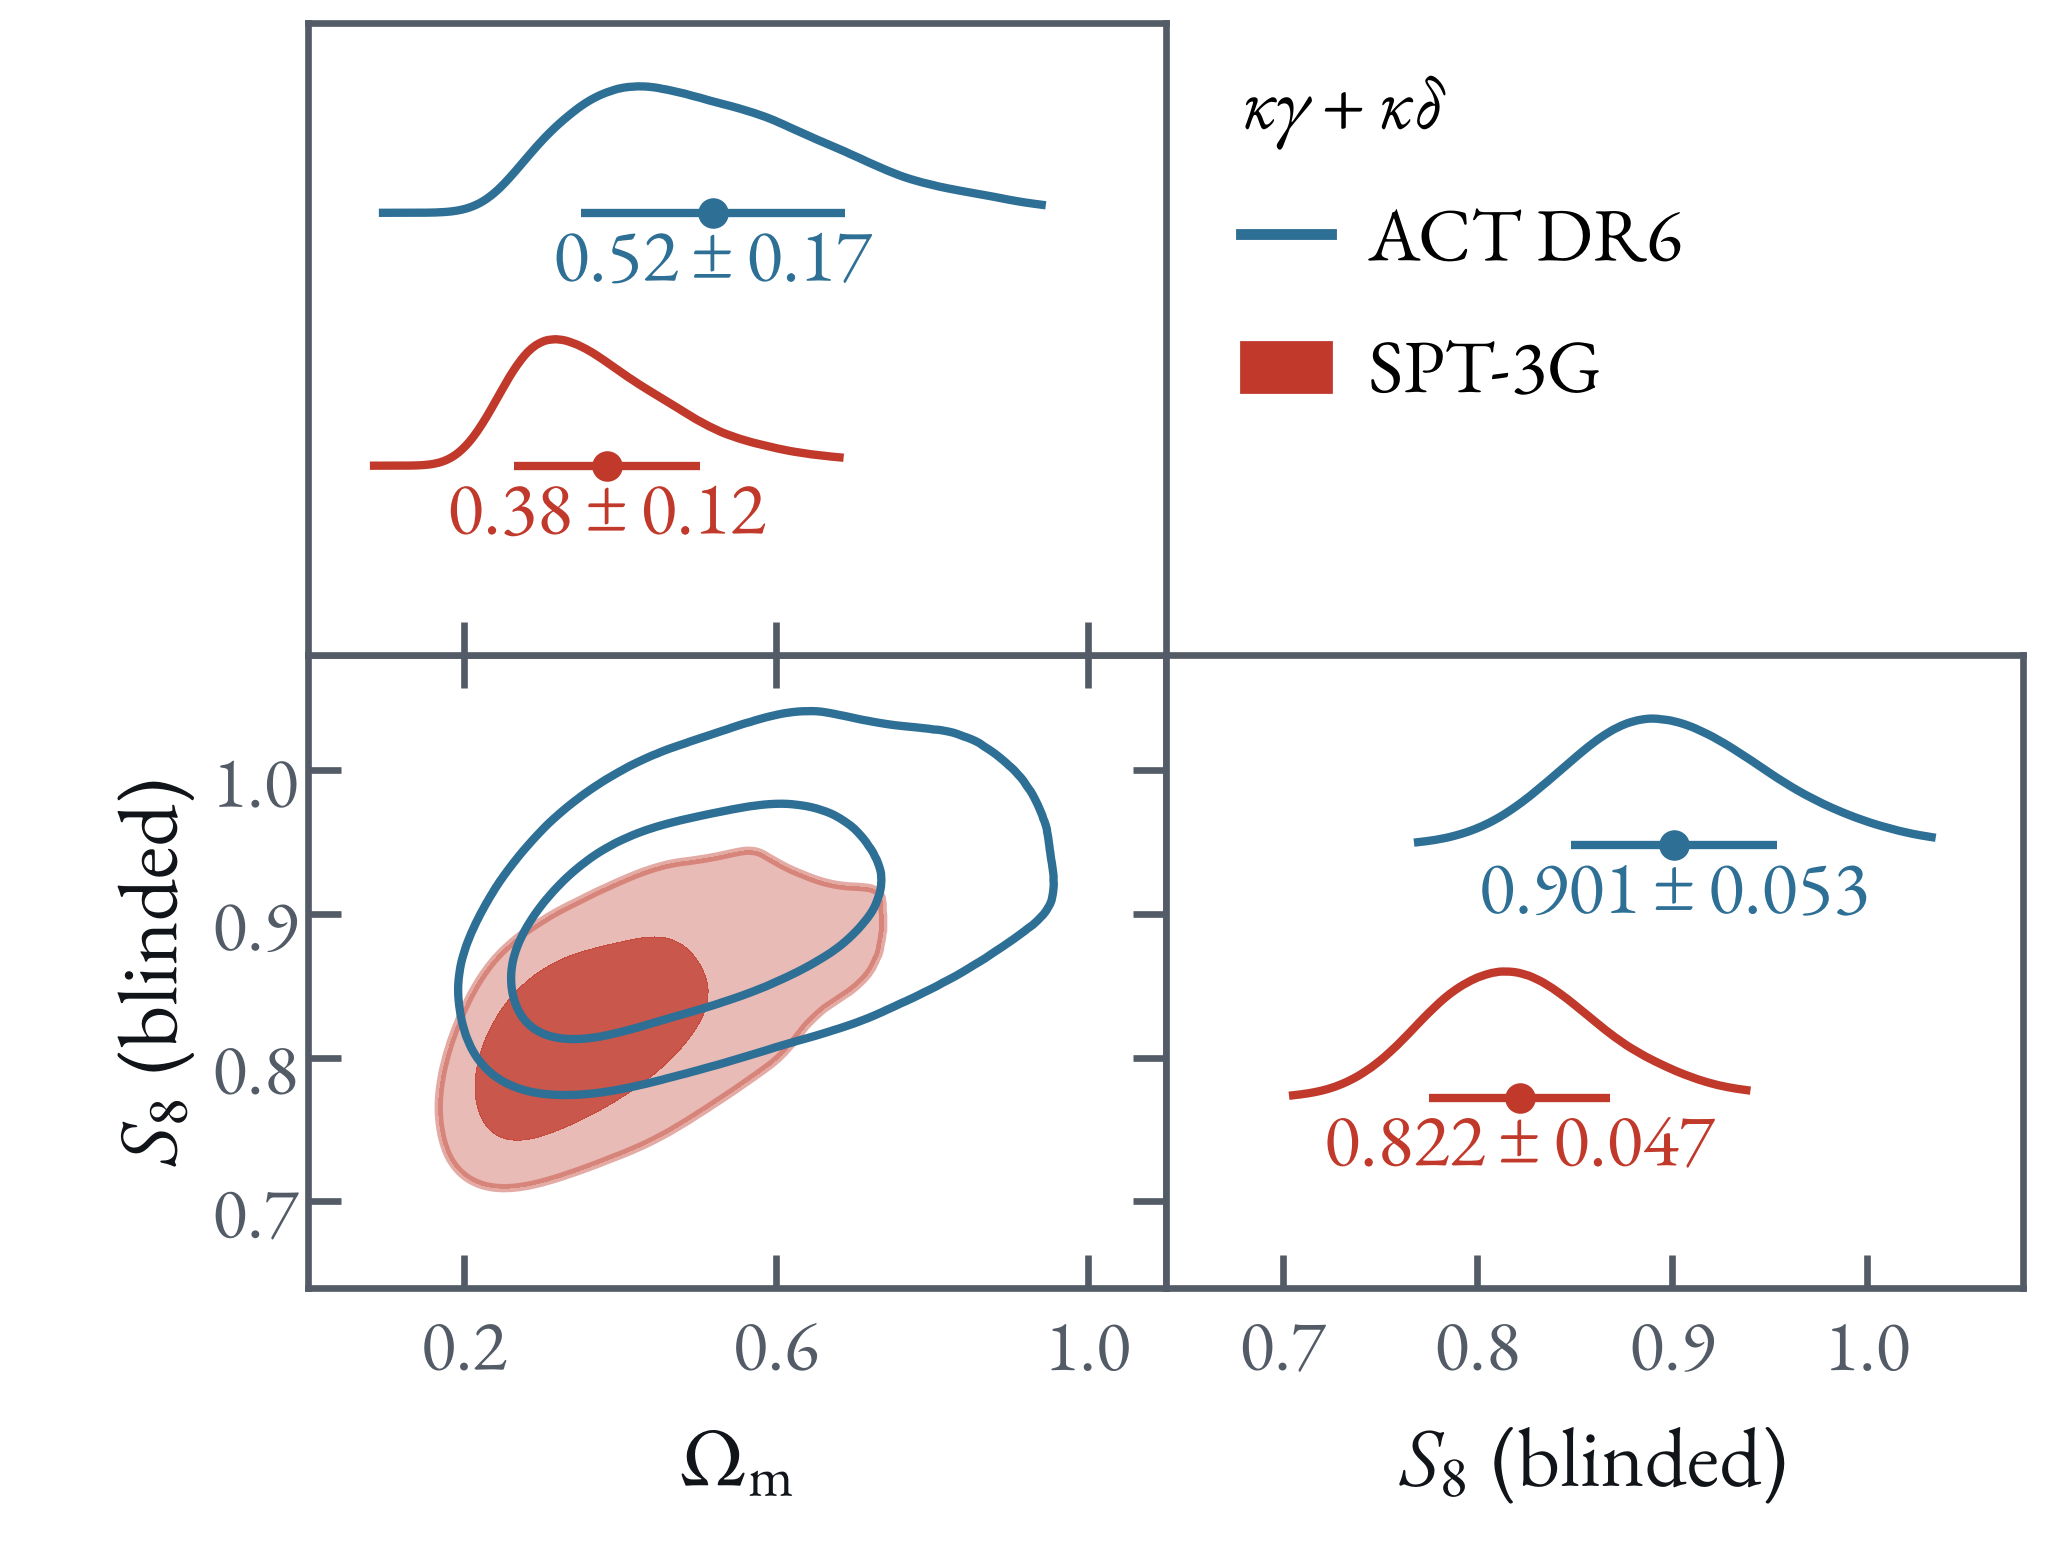
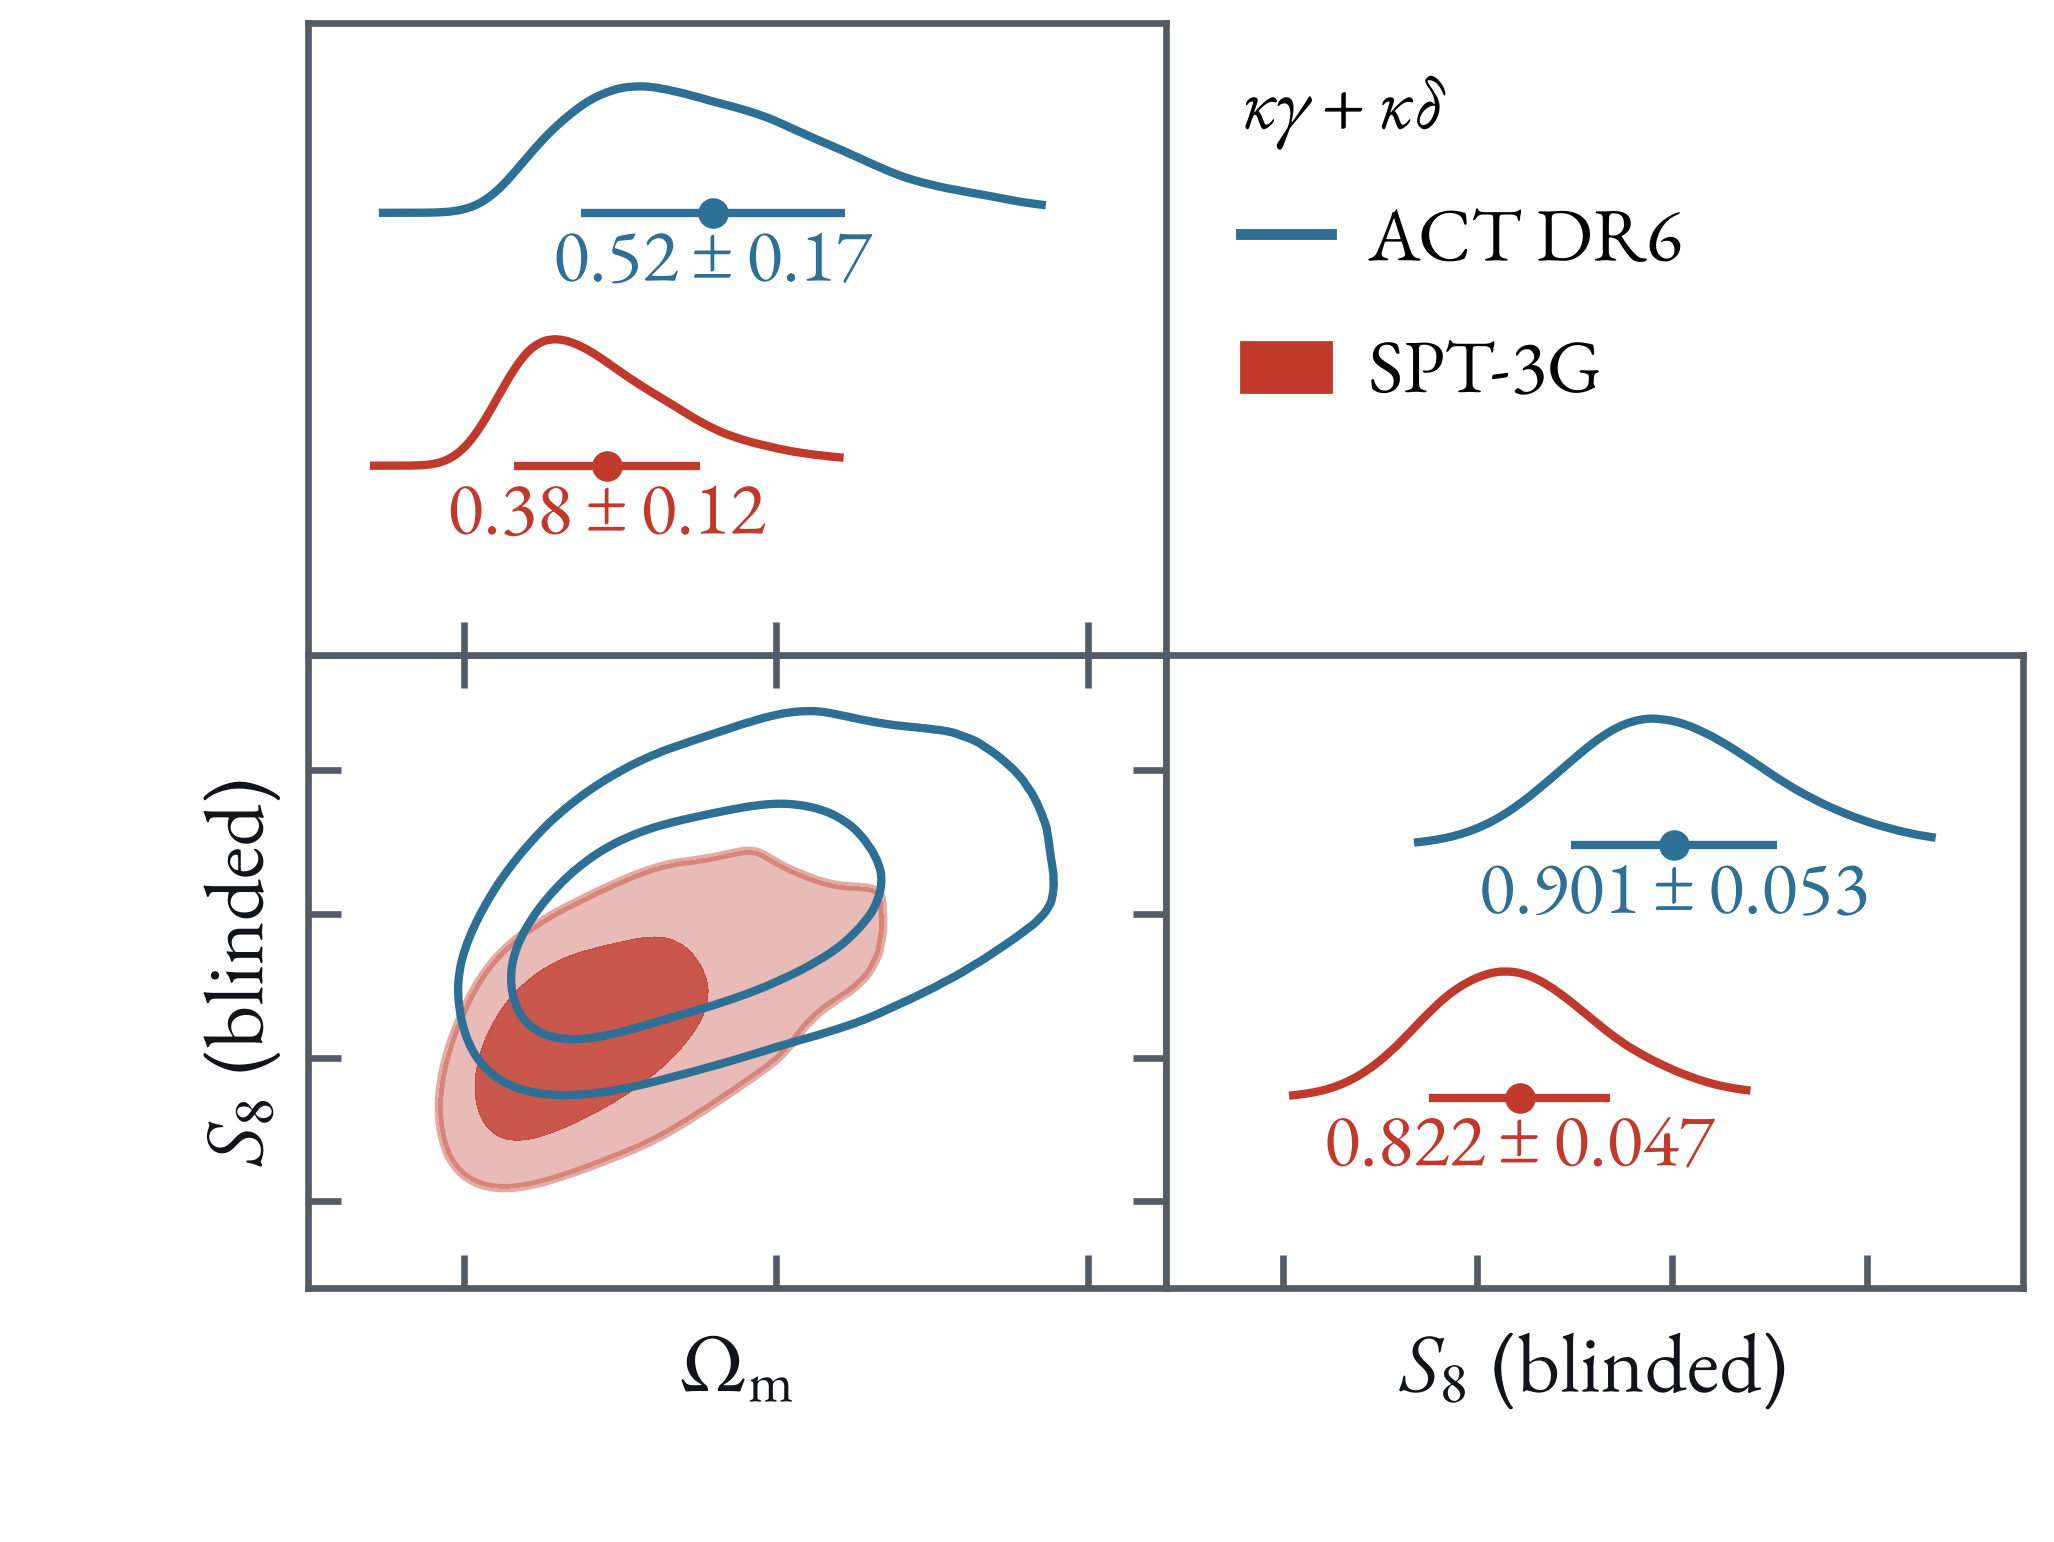
ICE chains: no tick values on the posterior axes; the text column is what is still to do
Claude-Session: https://claude.ai/code/session_01JK7o9HLVAQSEbDDkHmrKC6

diff --git a/2611_ICE_Barcelona/slides/chains.html b/2611_ICE_Barcelona/slides/chains.html
@@ -6,11 +6,9 @@
     <img class="fragment" data-fragment-index="2" src="images/ice_chains_spt_act_3.png" alt="The full 5x2pt vector: the SPT-3G and ACT DR6 contours coincide">
   </figure>
   <div class="text">
-    <span class="kicker">$\sigma(S_8)$, SPT-3G · ACT DR6</span>
+    <p>Still to do:</p>
     <ul>
-      <li>κ crosses: 0.047 · 0.053</li>
-      <li class="fragment" data-fragment-index="1">+ GGL: 0.031 · 0.034</li>
-      <li class="fragment" data-fragment-index="2">5×2pt: 0.017 · 0.016</li>
+      <li>cross-correlation response</li>
     </ul>
   </div>
   <aside class="notes">

diff --git a/2611_ICE_Barcelona/make_chains_spt_act.py b/2611_ICE_Barcelona/make_chains_spt_act.py
@@ -48,6 +48,8 @@ def main():
         fig = posteriors(chains, {'Omega_m': r'\Omega_\mathrm{m}', 'S8': r'S_8\ \mathrm{(blinded)}'}, title=label,
                          lims={'Omega_m': (0, 1.1), 'S8': (.64, 1.08)},
                          ticks={'Omega_m': [.2, .6, 1.], 'S8': [.7, .8, .9, 1.]})
+        for ax in fig.axes:   # the marginals carry the numbers; the axes show ticks without values
+            ax.set_xticklabels([]); ax.set_yticklabels([])
         save(fig, f'ice_chains_spt_act_{k}.png')
     (HERE / 'chains_spt_act.json').write_text(json.dumps(stats, indent=1) + '\n')
 
